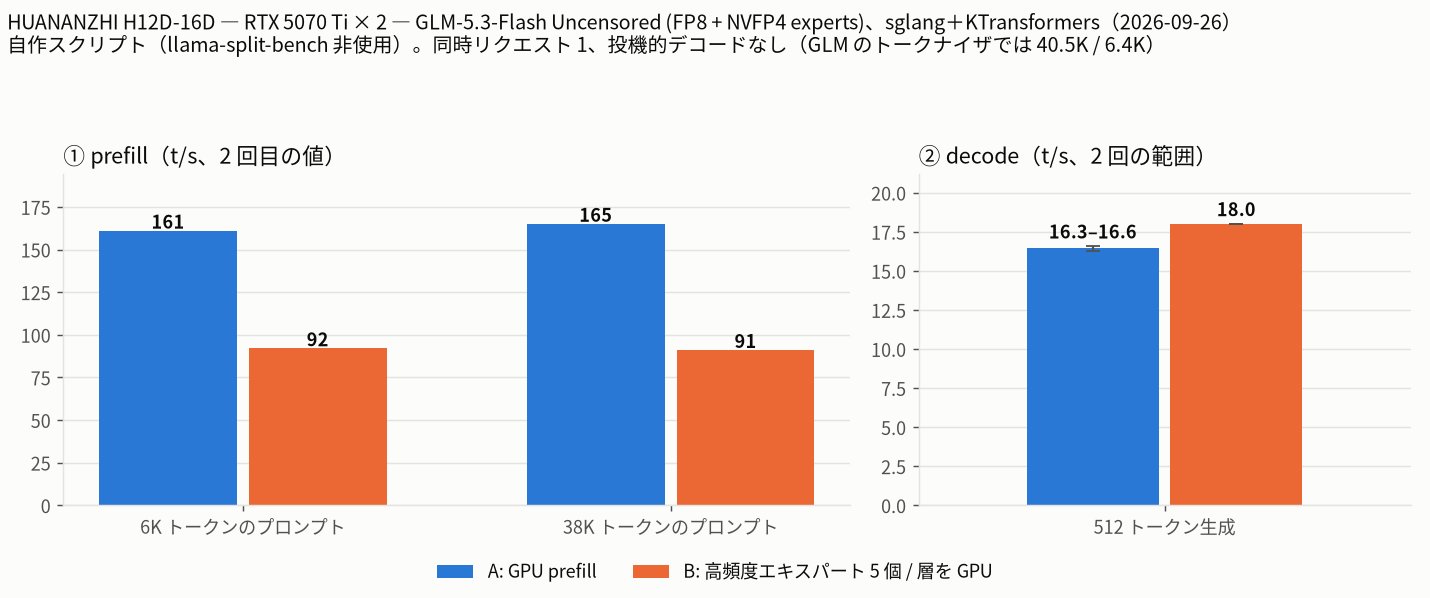
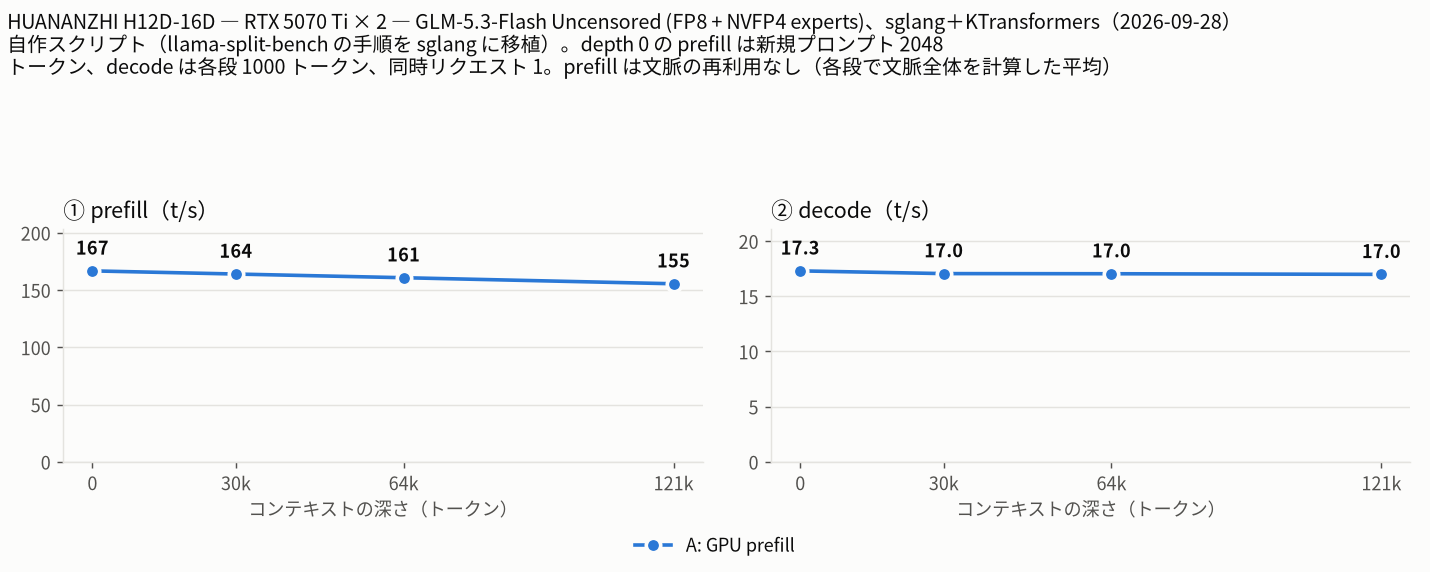
report: add the depth ladder (0/32K/64K/128K) as the main result
Maintainer request on #16: the llama-split-bench depth ladder, measured with the same
protocol ported to sglang (tools/sglang-ladder.py). The 09-26 real-prompt results stay
as a reference block.

diff --git a/report/2026-09-26_093348_running_glm_5.3_flash_uncensored_on_2x_epyc_7452_and_2x_rtx_5070_ti_comparing_gpu_prefill_and_hot_experts.md b/report/2026-09-26_093348_running_glm_5.3_flash_uncensored_on_2x_epyc_7452_and_2x_rtx_5070_ti_comparing_gpu_prefill_and_hot_experts.md
@@ -35,17 +35,42 @@ llama.cpp ではなく sglang＋KTransformers で動かしているため、llam
 
 | 項目 | 内容 |
 |------|------|
-| ツール | 自作スクリプト（sglang の OpenAI 互換 API にリクエストを送り、経過時間と usage から t/s を計算）。llama-split-bench は llama.cpp 専用のため使っていません |
+| ツール | 自作スクリプト [`tools/sglang-ladder.py`](https://github.com/05yuki/KTransformers/blob/main/tools/sglang-ladder.py)（llama-split-bench 7af72d4 の `measure_ladder.py` / `measure_pp0.py` と同じ手順を、sglang の `/generate` に移植したもの）。llama-split-bench は llama.cpp 専用のため使っていません |
 | モデル | GLM-5.3-Flash の Uncensored 版。本体は [orcarouter/GLM-5.3-Flash-Uncensored-FP8](https://huggingface.co/orcarouter/GLM-5.3-Flash-Uncensored-FP8)、CPU 側のエキスパートは [orcarouter/GLM-5.3-Flash-Uncensored-NVFP4](https://huggingface.co/orcarouter/GLM-5.3-Flash-Uncensored-NVFP4)。本体 FP8 で 306 GB（GPU 側と GPU prefill で使用）。CPU 側のエキスパートは NVFP4 版（195 GB）から読み込み。45 層、ルーティングされるエキスパート 288 個中 8 個がアクティブ |
 | 測定モード | CPU/GPU 分担（TP=2）の 2 構成。A（普段の設定）: GPU prefill: 長いプロンプトではエキスパートを 1 層ずつ GPU へ送って計算。GPU にエキスパートは常駐させない。B: 各層で使用頻度の高いエキスパート 5 個を GPU に常駐（`--mem-fraction-static 0.85`）、prefill は CPU |
-| ctx / stages | 131K / 深度ラダーなし（約 6K・約 38K トークンのプロンプトの prefill と、短いプロンプトからの 512 トークン生成） |
+| ctx / stages | 131K / 0,32000,64000,126000 |
 | KV キャッシュ | FP8（e4m3） |
 | 投機的デコード | なし |
-| その他 | prefill は実際に使っている日本語の執筆指示（約 38K トークン）とその先頭 11,000 文字（約 6K トークン）を max_tokens 1 で送信し、2 回目の値（1 回目は起動直後のウォームアップを含む）。プロンプトの先頭に毎回異なる文字列を付けてプレフィックスキャッシュを無効化。decode は `ignore_eos`・思考なしで 2 回。temperature 1.0 / top_p 0.95、同時リクエスト 1。測定日 2026-09-26 |
+| その他 | ラダーは llama-split-bench と同じ英語の合成テキストを使い、各段で前の段の文脈の続きを送ります（前の段までの KV はプレフィックスキャッシュで再利用し、増えた分だけを prefill）。各段の直後に greedy・`ignore_eos` で 1000 トークン生成。depth 0 の prefill は新規プロンプト（512 / 2048 / 8192 トークン、先頭に毎回異なる文字列を付けてキャッシュを無効化）で、表と図の depth 0 は 2048 トークンの値です。同時リクエスト 1、測定日 2026-09-28〜29。参考の実プロンプトの計測: prefill は実際に使っている日本語の執筆指示（約 38K トークン）とその先頭 11,000 文字（約 6K トークン）を max_tokens 1 で送信し、2 回目の値（1 回目は起動直後のウォームアップを含む）。プロンプトの先頭に毎回異なる文字列を付けてプレフィックスキャッシュを無効化。decode は `ignore_eos`・思考なしで 2 回。temperature 1.0 / top_p 0.95、同時リクエスト 1。測定日 2026-09-26 |
 
 ### 結果
 
 ![結果](attachment/2026-09-26_093348_running_glm_5.3_flash_uncensored_on_2x_epyc_7452_and_2x_rtx_5070_ti_comparing_gpu_prefill_and_hot_experts/split-bench-ja.png)
+
+depth ごとの prefill / decode（t/s）。depth 0 の prefill は新規プロンプト（2048 トークン）の値です。decode はラダーの合成テキストでの実測値です。
+
+| depth | 実際の深さ（トークン） | prefill | decode |
+|------:|------:|------:|------:|
+| 0 | 0 | 167 | 17.3 |
+| 30k | 29,911 | 164 | 17.0 |
+| 64k | 64,850 | 161 | 17.0 |
+| 121k | 121,093 | 155 | 17.0 |
+
+depth 0 の新規プロンプト prefill（t/s）:
+
+| プロンプト長（トークン） | prefill |
+|------:|------:|
+| 497 | 76.9 |
+| 1,890 | 167 |
+| 7,547 | 162 |
+
+- ラダーは構成 A（普段の設定）のみです
+- ラダーの計測（2026-09-28）の時点では、本体の FP8 版からルーティングされるエキスパートを除いた 16.6 GB の版を読み込んでいます（エキスパートは CPU 側・GPU prefill とも NVFP4 版から読むため、計算に使う重みは参考の計測と同じです）
+- このモデルの sglang（GLM 用の古い版）では前の段の文脈が再利用されず、各段で文脈全体を先頭から prefill しています。そのため prefill の値は、その深さまでを埋める平均の速度です
+- 最後の段は、context 長（131,072）に 1000 トークンの生成が収まるよう 126,000 を指定し、GLM のトークナイザでは 121,093 トークンになりました
+- この版の sglang はサーバ側で prefill の時刻を記録しないため、prefill は最初のトークンが返るまでの時間、decode はサーバが返す全体の所要時間から prefill の時間を引いたものから計算しています
+
+#### 参考: 実際の執筆指示での計測（2026-09-26）
 
 プロンプト長ごとの prefill（t/s）。括弧内は所要時間です。
 
@@ -64,6 +89,7 @@ decode（t/s、2 回の範囲）:
 
 ### 所感
 
+- 深度ラダーでは、最も深い段（121k）まで decode は 17.0〜17.3 t/s、prefill は 155〜164 t/s で、深さによる低下はほとんどありませんでした。
 - GPU prefill と GPU 常駐のエキスパートは VRAM を取り合うため、同時には使えません。長いプロンプトを送る用途は A、思考が長く生成側の時間が支配的な用途は B の方が早く終わります。
 - reasoning effort max では、書き始める前に 5 万トークン以上考えることがあります。この長さになると、decode の 1〜2 t/s の差が prefill の差より効きます。
 - decode では 1 トークンあたり約 6.3 GB のエキスパートを読み出していて、CPU のメモリ帯域が上限になっています。
@@ -88,4 +114,6 @@ decode（t/s、2 回の範囲）:
 ## 添付
 
 - [split-bench-en.png](attachment/2026-09-26_093348_running_glm_5.3_flash_uncensored_on_2x_epyc_7452_and_2x_rtx_5070_ti_comparing_gpu_prefill_and_hot_experts/split-bench-en.png)
-- [results.json](attachment/2026-09-26_093348_running_glm_5.3_flash_uncensored_on_2x_epyc_7452_and_2x_rtx_5070_ti_comparing_gpu_prefill_and_hot_experts/results.json)
+- [results-ladder.json](attachment/2026-09-26_093348_running_glm_5.3_flash_uncensored_on_2x_epyc_7452_and_2x_rtx_5070_ti_comparing_gpu_prefill_and_hot_experts/results-ladder.json) / [results-ladder-pp0.json](attachment/2026-09-26_093348_running_glm_5.3_flash_uncensored_on_2x_epyc_7452_and_2x_rtx_5070_ti_comparing_gpu_prefill_and_hot_experts/results-ladder-pp0.json)
+- [run-info.json](attachment/2026-09-26_093348_running_glm_5.3_flash_uncensored_on_2x_epyc_7452_and_2x_rtx_5070_ti_comparing_gpu_prefill_and_hot_experts/run-info.json)
+- [results.json](attachment/2026-09-26_093348_running_glm_5.3_flash_uncensored_on_2x_epyc_7452_and_2x_rtx_5070_ti_comparing_gpu_prefill_and_hot_experts/results.json)（参考の実プロンプトの計測）
